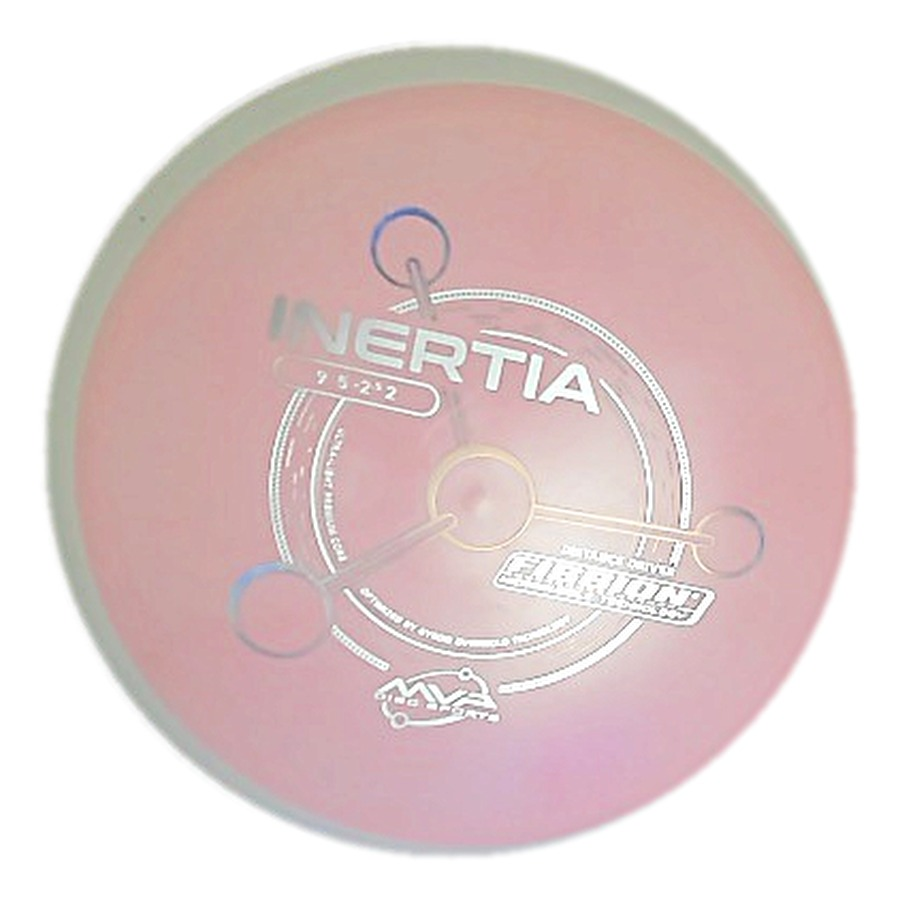
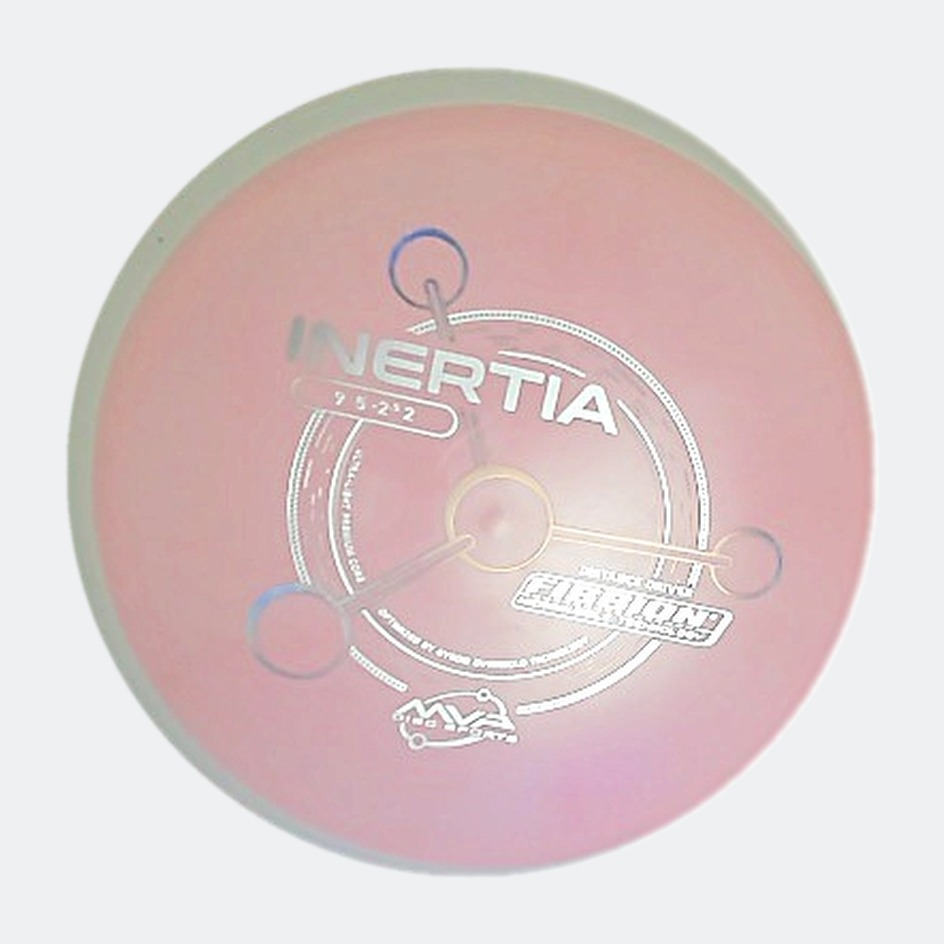
Composite disc photos on light gray so white-rimmed discs keep a defined edge
Fixes MVP Fission / Defender / Halo discs blending into a white background.
Card imgwrap background matched to the same gray; clean-photo.py updated
for future shots.

Claude-Session: https://claude.ai/code/session_01Xc8BWPsBTzb1ykajw2MzKk

diff --git a/docs/index.html b/docs/index.html
@@ -70,7 +70,7 @@
   .card{background:var(--panel);border:1px solid var(--line);border-radius:16px;overflow:hidden;
     display:flex;flex-direction:column;transition:transform .18s ease,box-shadow .18s ease,border-color .18s ease;}
   .card:hover{transform:translateY(-4px);border-color:var(--aqua-deep);box-shadow:0 16px 40px rgba(0,0,0,.4);}
-  .imgwrap{position:relative;aspect-ratio:1/1;background:#fff;display:flex;align-items:center;justify-content:center;padding:10px;}
+  .imgwrap{position:relative;aspect-ratio:1/1;background:#eef0f2;display:flex;align-items:center;justify-content:center;padding:10px;}
   .imgwrap img{width:100%;height:100%;object-fit:contain;}
   .noimg{color:#9aa3b2;font-size:13px;}
   .stamp{position:absolute;inset:0;display:flex;align-items:center;justify-content:center;pointer-events:none;}
